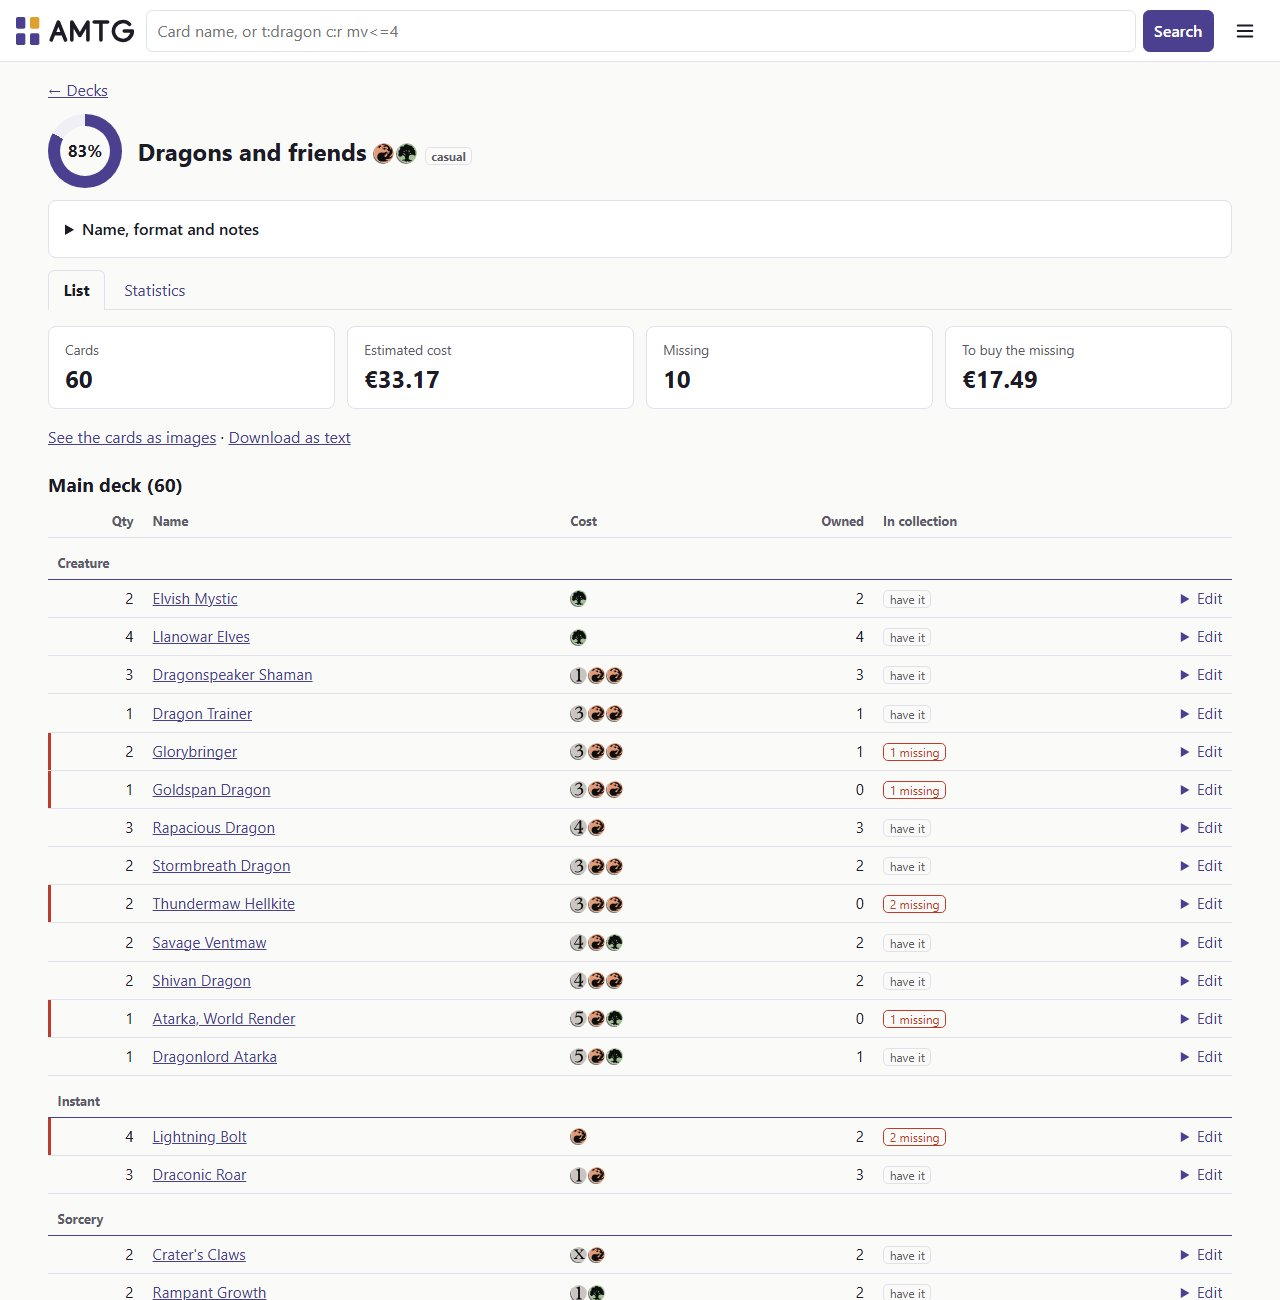
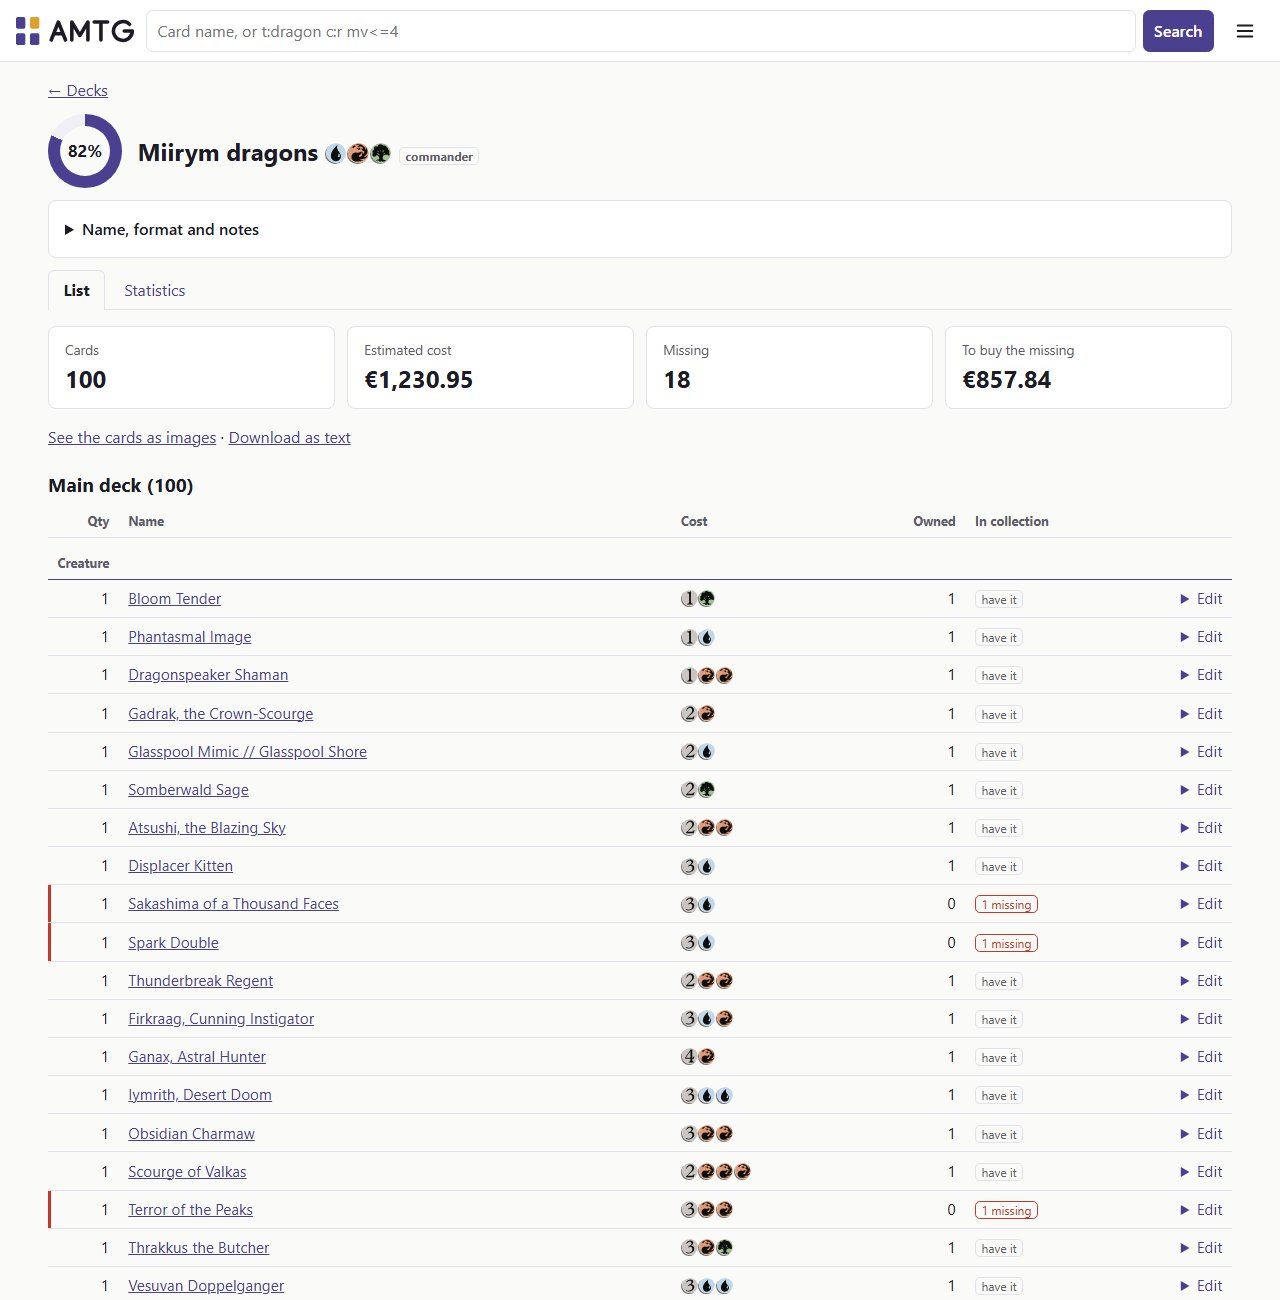
Site: show a real Commander deck, Miirym, Sentinel Wyrm, in the deck screenshot

diff --git a/site/it/index.html b/site/it/index.html
@@ -34,7 +34,7 @@
 <div class="shots">
 <figure><a href="../img/search.jpg"><img src="../img/search.jpg" alt="I risultati di una ricerca di draghi mostrati come immagini delle carte; quelli in collezione sono segnati ×1" loading="lazy" width="1280" height="1000"></a><figcaption>Ricerca: <code>t:dragon order:price</code> mostra tutti i draghi come immagini; ×1 segna quelli che hai.</figcaption></figure>
 <figure><a href="../img/fast.jpg"><img src="../img/fast.jpg" alt="Inserimento rapido: due grandi caselle, non foil e foil, accanto a ogni carta di un set" loading="lazy" width="1280" height="1000"></a><figcaption>Inserimento rapido: spunta una casella e la carta è nella collezione.</figcaption></figure>
-<figure><a href="../img/deck.jpg"><img src="../img/deck.jpg" alt="La lista di un mazzo con l'indicatore di completamento e le carte mancanti" loading="lazy" width="1280" height="1300"></a><figcaption>Un mazzo, e quanto ne possiedi già.</figcaption></figure>
+<figure><a href="../img/deck.jpg"><img src="../img/deck.jpg" alt="La lista di un mazzo Commander con l'indicatore di completamento e le carte mancanti" loading="lazy" width="1280" height="1300"></a><figcaption>Un mazzo Commander, e quanto ne possiedi già.</figcaption></figure>
 <figure><a href="../img/stats.jpg"><img src="../img/stats.jpg" alt="Statistiche della collezione per colore, rarità, tipo e anno" loading="lazy" width="1280" height="1300"></a><figcaption>Statistiche per colore, rarità, tipo, anno e finitura.</figcaption></figure>
 </div>
 </section>

diff --git a/site/index.html b/site/index.html
@@ -34,7 +34,7 @@
 <div class="shots">
 <figure><a href="img/search.jpg"><img src="img/search.jpg" alt="Search results for dragons shown as card images; the ones in the collection are marked ×1" loading="lazy" width="1280" height="1000"></a><figcaption>Search: <code>t:dragon order:price</code> shows every dragon as card images; ×1 marks the ones you own.</figcaption></figure>
 <figure><a href="img/fast.jpg"><img src="img/fast.jpg" alt="Fast input: two big boxes, non-foil and foil, beside every card of a set" loading="lazy" width="1280" height="1000"></a><figcaption>Fast input: tick a box and the card is in your collection.</figcaption></figure>
-<figure><a href="img/deck.jpg"><img src="img/deck.jpg" alt="A deck list with completion gauge and missing cards" loading="lazy" width="1280" height="1300"></a><figcaption>A deck, and how much of it you already own.</figcaption></figure>
+<figure><a href="img/deck.jpg"><img src="img/deck.jpg" alt="A Commander deck list with completion gauge and missing cards" loading="lazy" width="1280" height="1300"></a><figcaption>A Commander deck, and how much of it you already own.</figcaption></figure>
 <figure><a href="img/stats.jpg"><img src="img/stats.jpg" alt="Collection statistics by colour, rarity, type and year" loading="lazy" width="1280" height="1300"></a><figcaption>Statistics by colour, rarity, type, year and finish.</figcaption></figure>
 </div>
 </section>

diff --git a/PLAN.md b/PLAN.md
@@ -40,7 +40,7 @@ Read `SPEC.md` first; section numbers below (§) refer to it.
 | + | Owner request: no card list page; the statistics page is "My collection" again; the syntax in the menu | done 2026-11-14, not released | 1107 tests green (7 fewer: the tests of the removed page and of `service.list_entries` go with them — the list, its filters, sorting, paging and column headings, and `GET /fast`; one new test says `/collection` is 404 and linked from nowhere; the edit, move and remove tests now come from other pages, and the price test uses `service.totals`). The owner did not want to maintain a page that only listed the cards: the collection is searched like every card (`haveprint:yes`, `loc:`, `qty`, the switch in the menu). **Removed**: `GET /collection` and `collection.html`, the inline row editing only it used (the edit page always renders whole now), `service.list_entries` / `SORTS` / `PER_PAGE`, the "sorts" form option, 17 strings nothing used any more (`collection.sort.*`, `nav.my_stats`, `nav.fast`, `admin.syntax.link`…). **Kept**: editing, moving and removing one entry (`/collection/{id}/edit`, `POST /collection/{id}`, `…/move`, `…/remove`), reached from the card page; without `next` they go back to `/stats`, and the lock to `/`. **Statistics page**: titled "My collection" (`collection.title`, also the menu's label) and links to Locations, Import, Export only. **Menu**: "Search syntax" with an *i* in a circle, just above Administration; the section in Administration is gone. **Locations**: a place's name was a link to the list; it is now a search, `loc:"<name>"` (`templating.location_search`); "No location" is plain text. The import's last page links to My collection. SPEC §7 and §9, the route table, README, the website guides and the changelog follow. Seen in a browser: the menu, the 404, the locations link (the statistics page needs a catalog, which the scratch folder does not have; tests cover it). Decisions taken without asking — TODO(owner): confirm or change: (1) `GET /fast` (fast input on the newest set) went too, with its link in Administration, since fast input now lives in the search results only; (2) `loc:` matches names that contain the text, so the search for "Box" also lists "Blue box"; and there is no search for copies without a location — both would need a change to the search grammar (§6), which is the owner's call; (3) the addresses that edit one entry keep the word `collection`. |
 | + | Owner request: a logo | done 2026-11-14, not released | 1115 tests green (8 new, `tests/test_logo.py`; `tests/test_app.py` and `tests/test_selfupdate.py` follow the header). Among drafts shown in the conversation the owner chose the binder: four cards in a square, the top right one amber. `scripts/make_logo.py` (standard library only, lettering drawn as strokes, no font) writes `branding/` (icon, `amtg.ico` 16–256 px, PNG 16–512, the mark, AMTG, AMTG.FANS, the full name on two lines and on one, each for light and dark backgrounds, and `preview.html`), the app's favicons (violet tile; ink tile for the dark pages), the header's `templates/logo.svg`, and the website's `favicon.svg` and `logo.svg`. A test fails when a file is not what the script draws. The header shows the binder and AMTG in the page's colours (`.logo-*` in `app.css`), the binder alone below 30rem; every website page shows AMTG.FANS; `scripts/build_exe.py` passes `--icon branding/amtg.ico`; the README shows the logo. SPEC §7 (Name, new *Logo*, Header, Light and dark) and §10, `docs/development.md` and the changelog follow. Seen in a browser on an empty scratch data folder: dark and light, desktop and 375 px (no sideways scroll); the website at depth 2 (`it/guides/`). **Not tried:** building the executable with the icon (PyInstaller not run here) and how Explorer shows it; .NET's icon reader opens every size up to 128 but not the 256 PNG frame, which is the format Windows itself uses. Decisions taken without asking — TODO(owner): confirm or change: (1) the colours are the app's violet and amber, with ink; (2) the lettering is geometric capitals drawn for the logo; (3) the dark favicon is the binder on an ink tile; (4) the app shows AMTG, the website AMTG.FANS; (5) on a phone the header shows only the binder. |
 | + | Owner request: decks one under the other, with colour identity and costs; a New deck button | done 2026-11-14, not released | 1119 tests green (4 new in `tests/test_decks.py`: numbering, colour identity and costs, a colourless or empty deck, the button and the name panel; the import test now picks its box by name, since the notes are a `<textarea>` too). `/decks` lists the decks as stacked blocks: gauge, name, colour identity of the **main deck** as mana symbols (`{C}` when colourless, nothing for a deck with no main deck), format, main deck and sideboard copies, missing, contested, estimated cost (every copy, both boards, at the cheapest paper printing — the price the deck page already used for the missing cards), the cost of completing it, the day of the last change (`updated_at`, UTC) and the notes. The form at the bottom is gone: **+ New deck**, right of the title, posts `/decks` with no name and the service names the deck "Deck *n*" / "Mazzo *n*" in the visitor's language, *n* = number of decks + 1, raised while that name is taken (so after deleting one the numbers do not go back). It opens `/decks/{id}?new=1`, where *Name, format and notes* (a fold at the top of the deck page, under the head) is open and the name is focused and selected (`data-select`, 6 lines in `app.js`); deleting stayed at the bottom, in its own fold. A POST with a name still creates that deck, as the JSON import and the tests do. The deck page also shows the colour identity and an *Estimated cost* tile; its head is a partial (`_deck_head.html`) shared with the Statistics tab. The missing cost now comes from the summary, not from the route. No schema change. Checked in the browser on fixture data, desktop and phone width. SPEC §14, `docs/decks.md`, the site guide (en, it) and the changelog follow. TODO(owner): the identity is the union of the main deck's cards; for Commander that is the commander's identity only if the list is legal — say if you would rather pick the commander. |
-| + | Owner request: new screenshots on the website, four instead of five | done 2026-11-15 | No code changed (the website only). `site/img/search.jpg`, `fast.jpg`, `deck.jpg`, `stats.jpg` retaken from the current app (new header with the logo, fast input inside the search results, the new deck page); `collection.jpg` deleted with its figure on both home pages, since the card list page is gone. In the search for dragons eight of the first 21 cards are owned and show ×1; its caption and alt text say so (English and Italian). Made from a **demo collection**, not the owner's: a scratch data folder with a copy of the local catalog and image cache and a collection built by a throwaway script through the service functions (8 dragons, the start of Foundations in a "Foundations binder", a 60-card deck "Dragons and friends" with 50 owned, 110 random printings for the statistics; 308 copies). Shots by headless Chrome with its own scratch profile, 1280 px wide (1000 or 1300 tall as before), light pages, English, saved as JPEG. Seen on the site served locally: four figures, all images load. The scripts were not committed — TODO(owner): say if a `scripts/make_demo.py` for future screenshots is wanted. |
+| + | Owner request: new screenshots on the website, four instead of five | done 2026-11-15 | No code changed (the website only). `site/img/search.jpg`, `fast.jpg`, `deck.jpg`, `stats.jpg` retaken from the current app (new header with the logo, fast input inside the search results, the new deck page; its caption says Commander); `collection.jpg` deleted with its figure on both home pages, since the card list page is gone. In the search for dragons eight of the first 21 cards are owned and show ×1; its caption and alt text say so (English and Italian). Made from a **demo collection**, not the owner's: a scratch data folder with a copy of the local catalog and image cache and a collection built by a throwaway script through the service functions (8 dragons, the start of Foundations in a "Foundations binder", a real Commander list, Miirym, Sentinel Wyrm, as published on Archidekt by Game Knights (deck 4948730), named "Miirym dragons", 82 of its 100 cards owned (the dual lands and other expensive cards missing; the deck's dragons that the search shot shows are left as they were there), 110 random printings, none from the deck or that shot, for the statistics; 322 copies). Shots by headless Chrome with its own scratch profile, 1280 px wide (1000 or 1300 tall as before), light pages, English, saved as JPEG. Seen on the site served locally: four figures, all images load. The scripts were not committed — TODO(owner): say if a `scripts/make_demo.py` for future screenshots is wanted. |
 
 ---
 
